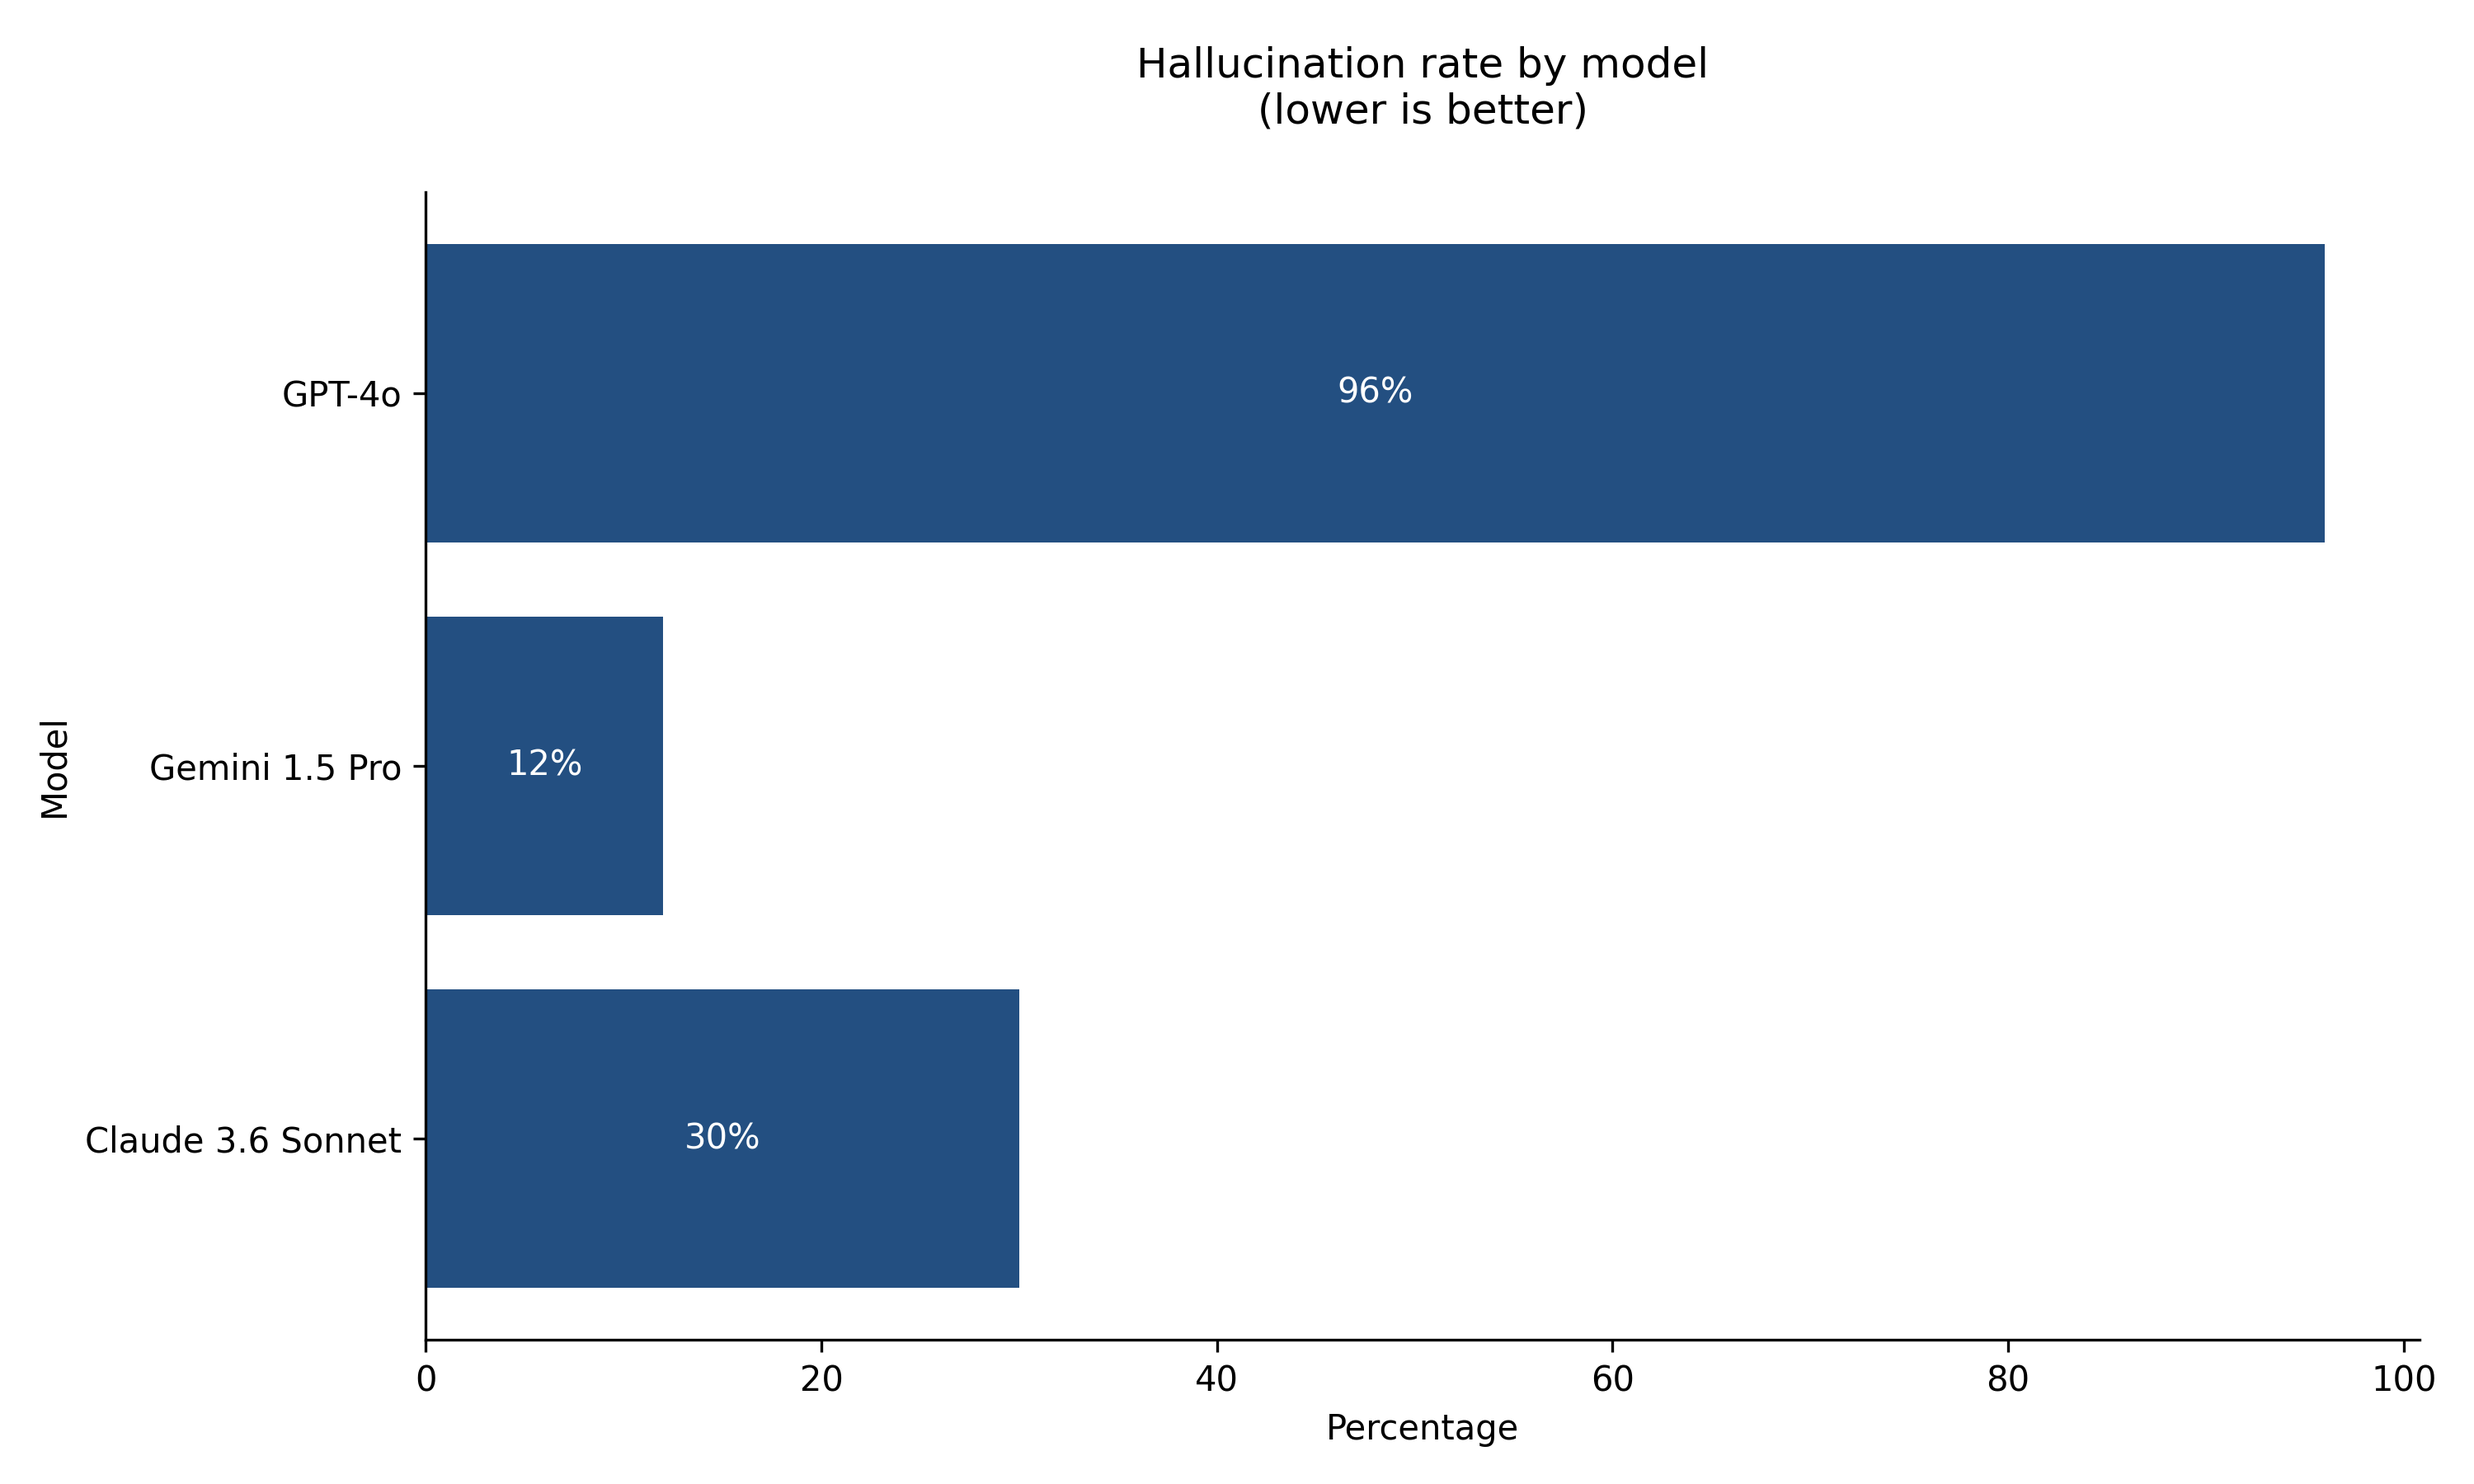
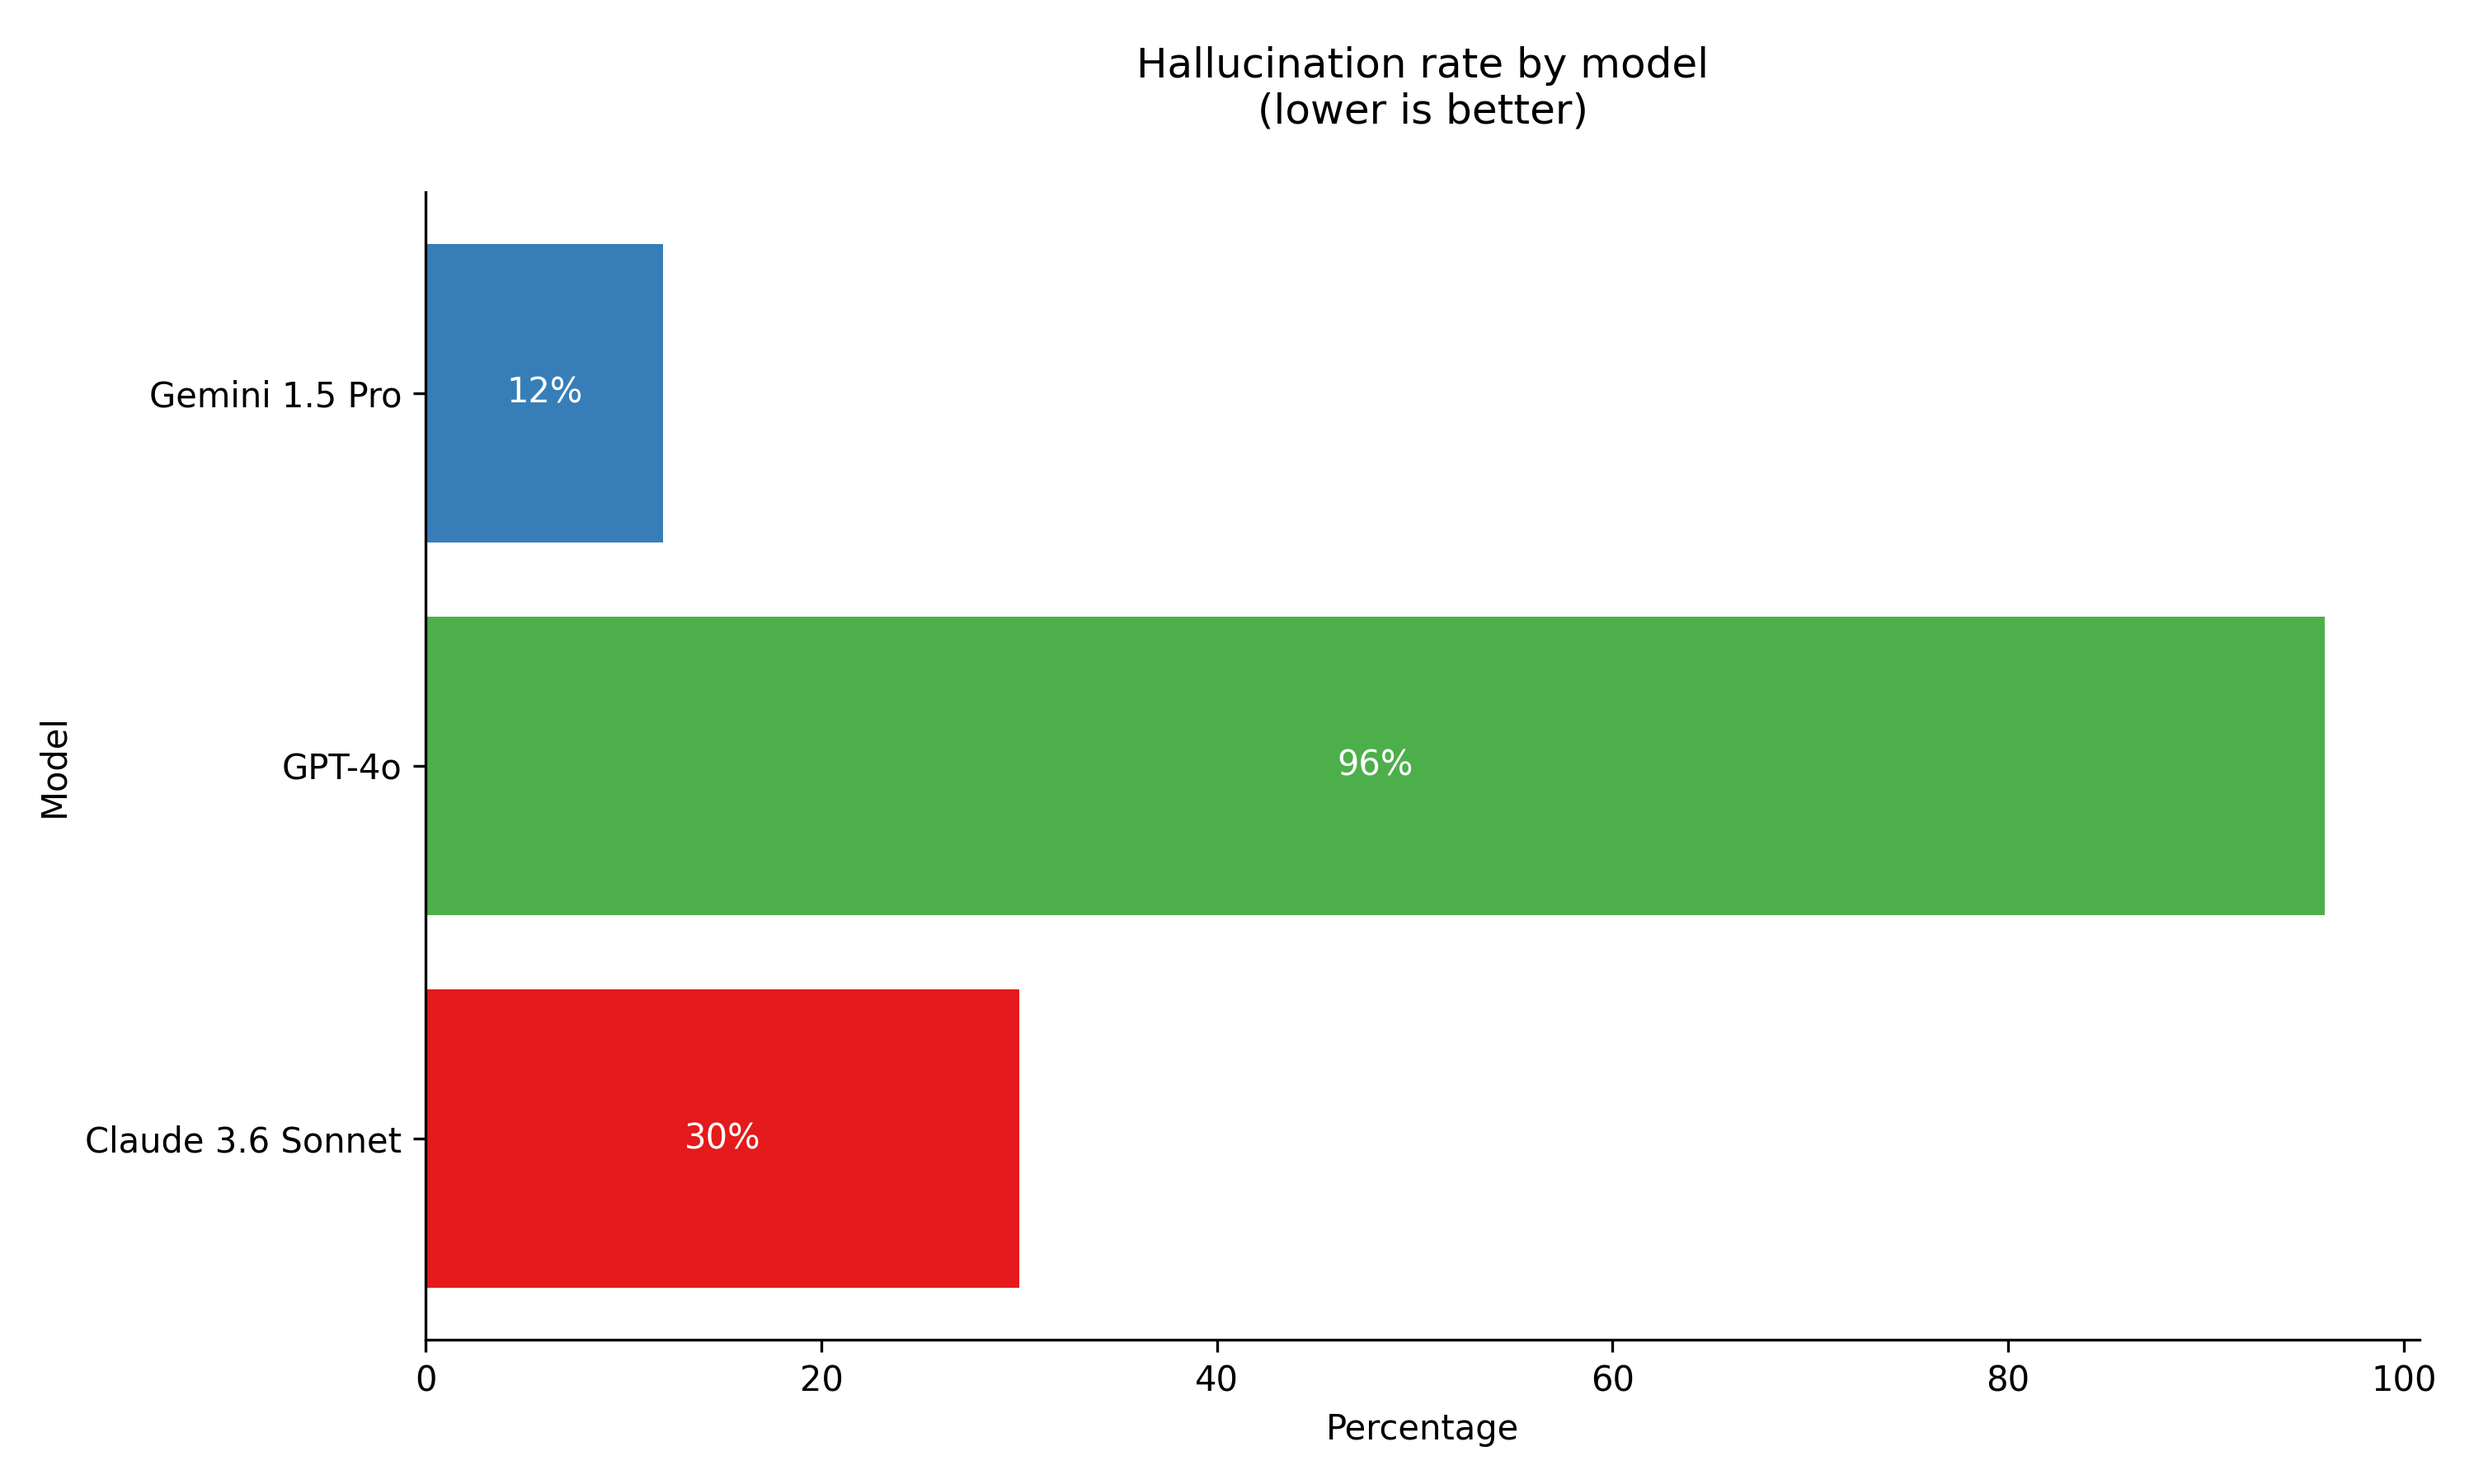
area ratio hist linewidth + hallucination rates plot

diff --git a/src/wimmelbench/hallucination_stats.py b/src/wimmelbench/hallucination_stats.py
@@ -5,7 +5,7 @@ from typing import Mapping
 
 import matplotlib.pyplot as plt
 
-from wimmelbench.stats import MODEL_DIRS
+from wimmelbench.stats import MODEL_DIRS, MODEL_COLORS
 
 
 def plot_hallucination_stats(
@@ -22,8 +22,8 @@ def plot_hallucination_stats(
         )
         model_stats[model] = (hallucinated / total) * 100
 
-    # Prepare data for plotting
-    models = list(model_stats.keys())
+    # Sort models alphabetically
+    models = sorted(model_stats.keys())
     hallucinated_pcts = [model_stats[model] for model in models]
 
     # Create the bar chart
@@ -32,8 +32,12 @@ def plot_hallucination_stats(
     ax.spines["top"].set_visible(False)
     ax.spines["right"].set_visible(False)
 
-    # Create horizontal bars
-    bars = ax.barh(models, hallucinated_pcts, color="#234f81")
+    # Create horizontal bars with model-specific colors
+    bars = ax.barh(
+        models,
+        hallucinated_pcts,
+        color=[MODEL_COLORS[model] for model in models],  # Use model-specific colors
+    )
 
     # Add percentage labels
     for rect in bars:

diff --git a/src/wimmelbench/stats.py b/src/wimmelbench/stats.py
@@ -109,6 +109,7 @@ def plot_area_ratio_distribution(area_ratios: List[float], output_path: str) -> 
         bins=bins,
         color="#234f81",
         edgecolor="black",
+        linewidth=0.5,
         zorder=3,
     )
 
